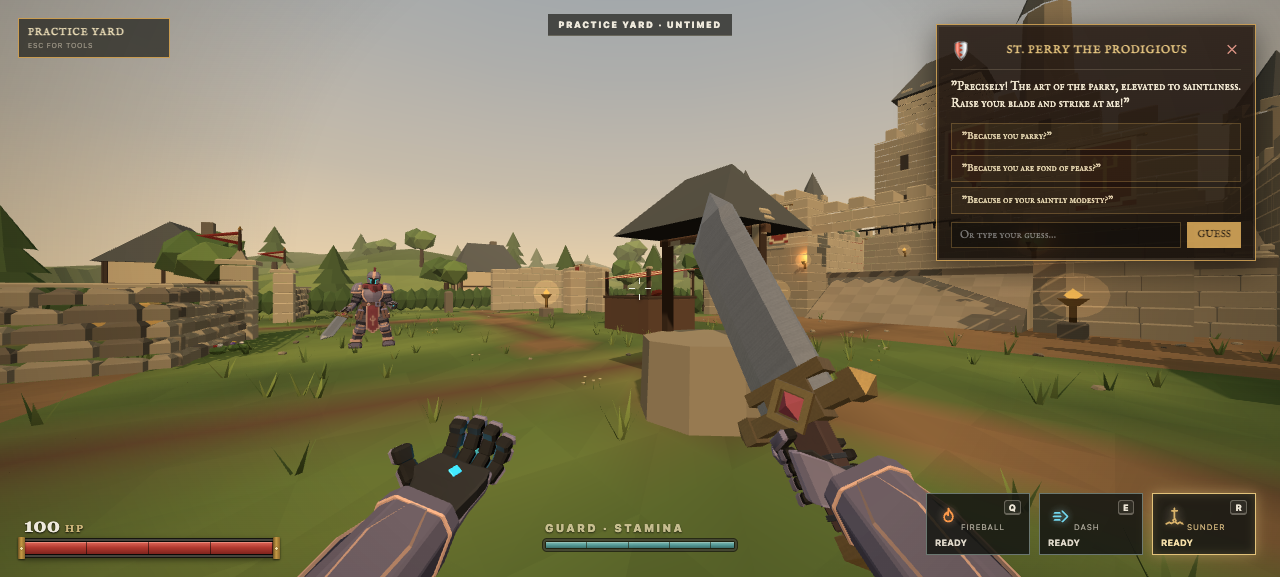
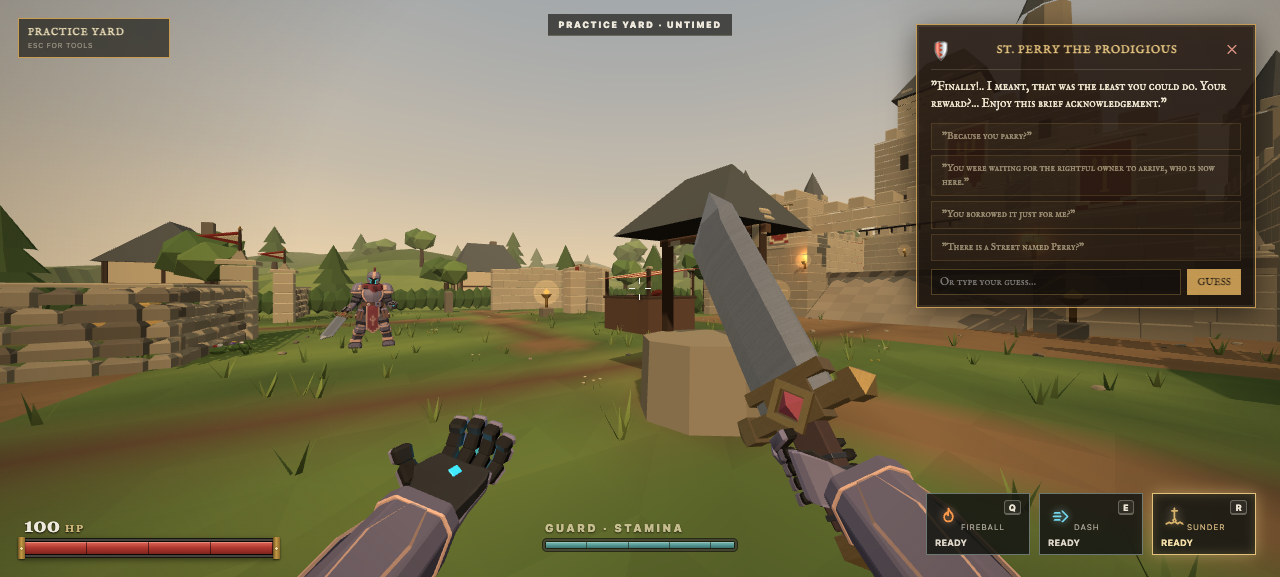
feat(st-perry): rotating dialogue choices, exact authored responses & presentation refinement

Changed region(s): [[0.6875, 0.0312, 1.0, 0.5615]]

diff --git a/client/index.html b/client/index.html
@@ -479,11 +479,7 @@
           <div class="perry-dialogue-body">
             <p id="perry-dialogue-text">"I am St. Perry, the Prodigious! Any idea why that is my name?"</p>
           </div>
-          <div id="perry-dialogue-options" class="perry-dialogue-options">
-            <button class="perry-option-btn" type="button" data-answer="parry">"Because you parry?"</button>
-            <button class="perry-option-btn" type="button" data-answer="pears">"Because you are fond of pears?"</button>
-            <button class="perry-option-btn" type="button" data-answer="modesty">"Because of your saintly modesty?"</button>
-          </div>
+          <div id="perry-dialogue-options" class="perry-dialogue-options"></div>
           <form id="perry-dialogue-form" class="perry-dialogue-form">
             <input id="perry-dialogue-input" type="text" placeholder="Or type your guess…" autocomplete="off" />
             <button type="submit">GUESS</button>

diff --git a/client/styles.css b/client/styles.css
@@ -255,8 +255,8 @@ body.took-steel::after{content:"";position:fixed;inset:0;z-index:50;pointer-even
   top: 24px;
   right: 24px;
   z-index: 30;
-  width: 320px;
-  max-width: calc(100vw - 48px);
+  width: 340px;
+  max-width: min(360px, calc(100vw - 48px));
   pointer-events: auto;
 }
 .perry-dialogue.hidden { display: none; }
@@ -312,12 +312,20 @@ body.took-steel::after{content:"";position:fixed;inset:0;z-index:50;pointer-even
   font-family: inherit;
   text-align: left;
   cursor: pointer;
+  white-space: normal;
+  line-height: 1.35;
+  overflow-wrap: break-word;
+  word-break: normal;
   transition: background 0.15s, border-color 0.15s;
 }
 .perry-option-btn:hover {
   background: rgba(201, 156, 82, 0.22);
   border-color: #ecc97f;
   color: #ffffff;
+}
+.perry-option-btn:disabled {
+  opacity: 0.6;
+  cursor: not-allowed;
 }
 .perry-dialogue-form {
   display: flex;
